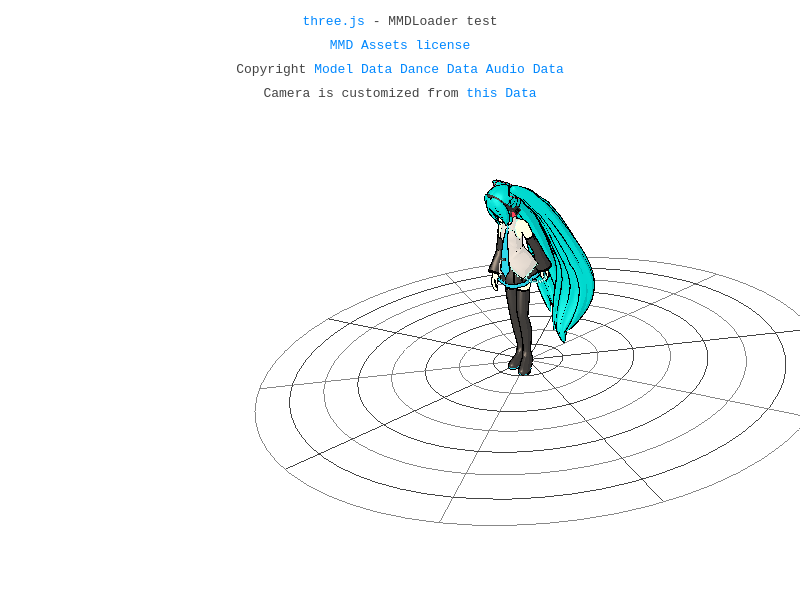
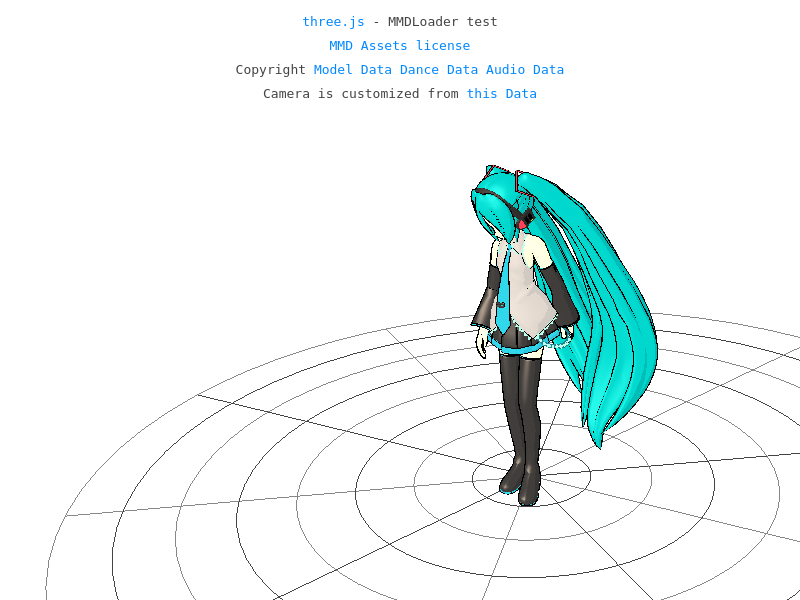
simplify timer fix

diff --git a/test/puppeteer.js b/test/puppeteer.js
@@ -4,52 +4,18 @@ import puppeteer from 'puppeteer';
 
   // launch puppeteer with WebGL support in Linux and headless:false in Travis
   puppeteer.launch({
-    headless: !process.env.TRAVIS,
+    headless: false,
+    //headless: !process.env.TRAVIS,
     args: ['--use-gl=egl']
   }).then(async browser => {
 
-    // download timer-injection.js
     let page = (await browser.pages())[0];
-    await page.goto('http://127.0.0.1:8080/test/timer-injection.js');
-    const timerInjection = await page.evaluate(() => document.getElementsByTagName('pre')[0].innerHTML);
-    
-    // save page body from target page
-    let targetBody = '';
-    let targetUrl = 'http://127.0.0.1:8080/examples/webgl_loader_mmd_audio.html';
-    await page.goto(targetUrl, { waitUntil : 'domcontentloaded' });
-    await page.setRequestInterception(true);
-    page.on('request', req => req.continue());
-    page.on('response', async (resp) => {
-      if (resp.url().includes('.html')) {
-        targetBody = await resp.text();
-      }
-    });
-    await page.goto(targetUrl, { waitUntil : 'domcontentloaded' });
-    
-    // make a new request and inject timer in page body
-    page.close();
-    page = await browser.newPage();
+    page.on('console', msg => console.log('PAGE LOG:', msg.text()));
     await page.setViewport({ width: 800, height: 600 });
-    await page.setRequestInterception(true);
-    page.on('console', msg => console.log('PAGE LOG:' + msg.text()));
-    page.on('request', req => {
-      if (req.url() == targetUrl) {        
-        req.respond({
-          status: 200,
-          contentType: 'text/html; charset=UTF-8',
-          body: targetBody.replace(
-            '../build/three.module.js',
-            "../build/three.module.js';" + timerInjection + ";'"
-          )
-        });
-      } else {
-        req.continue();
-      }
-    });
-    await page.goto(targetUrl);
-
+    await page.goto('http://127.0.0.1:8080/examples/webgl_loader_mmd_audio.html');
+    
     // save screenshot and exit
-    await new Promise(r => setTimeout(r, 1500));
+    await new Promise(r => setTimeout(r, 3000));
     await page.screenshot({ path: './examples/screenshots/miko.png', fullPage: true});
     await browser.close();
 

diff --git a/test/timer-injection.js b/test/timer-injection.js
@@ -1,23 +1,27 @@
-let DEFAULTTIME = 5000;
+// this snippet works only in headless chrome
+if (navigator.webdriver) {
 
-// timer definition
-const TIMEGETTER = function() { return DEFAULTTIME; };
+  // timer definition
+  let TIMESTART = 5000;
+  let TIMECOUNT = 0;
+  const TIMEGETTER = function() {
+    TIMECOUNT++;
+    return TIMESTART + TIMECOUNT*16;
+  };
 
-// time calculated as Date.now()
-Date.now = TIMEGETTER;
+  // time calculated as Date.now()
+  window.Date.now = TIMEGETTER;
 
-// time calculated as performance.now()
-performance.now = TIMEGETTER;
+  // time calculated as performance.now()
+  window.performance.now = TIMEGETTER;
 
-// time calculated as ( new Date() ).getTime()
-Date.prototype.getTime = TIMEGETTER;
-
-// more complex injection
-const RAF = requestAnimationFrame;
-requestAnimationFrame = function(f) {
-  // time calculated in THREE.Clock.getDelta()
-  // ... replace Clock()?
+  // time calculated as ( new Date() ).getTime()
+  window.Date.prototype.getTime = TIMEGETTER;
 
   // time calculated in requstAnimationFrame() callback
-  RAF(function() { f(DEFAULTTIME); });
+  const RAF = window.requestAnimationFrame;
+  window.requestAnimationFrame = function(f) {
+    RAF(function() { if (TIMECOUNT < 3000) f(TIMEGETTER()); });
+  }
+  
 }

diff --git a/examples/webgl_loader_mmd_audio.html b/examples/webgl_loader_mmd_audio.html
@@ -28,6 +28,7 @@
 		</div>
 
 		<script src="js/libs/ammo.js"></script>
+		<script src="../test/timer-injection.js"></script>
 
 		<script type="module">
 

diff --git a/README.md b/README.md
@@ -2,12 +2,11 @@
 [![Travis](https://travis-ci.org/munrocket/puppeteer-three.svg?branch=master)](https://travis-ci.org/munrocket/puppeteer-three)
 [![CircleCI](https://circleci.com/gh/munrocket/puppeteer-three.svg?style=svg)](https://circleci.com/gh/munrocket/puppeteer-three)
 
-This repo created in order to add WebGL automated testing with puppeteer in Three.js. It's probably over complicated for general usage.
+This repo created in order to add WebGL automated testing with puppeteer in Three.js.
 
 ### 2do list
 - [x] screenshots maker
 - [x] ci config for travis/circleci
 - [x] prototype for exact time
-- [ ] fix all examples
 - [ ] diff between two images
 - [ ] parallel testing in target folder
